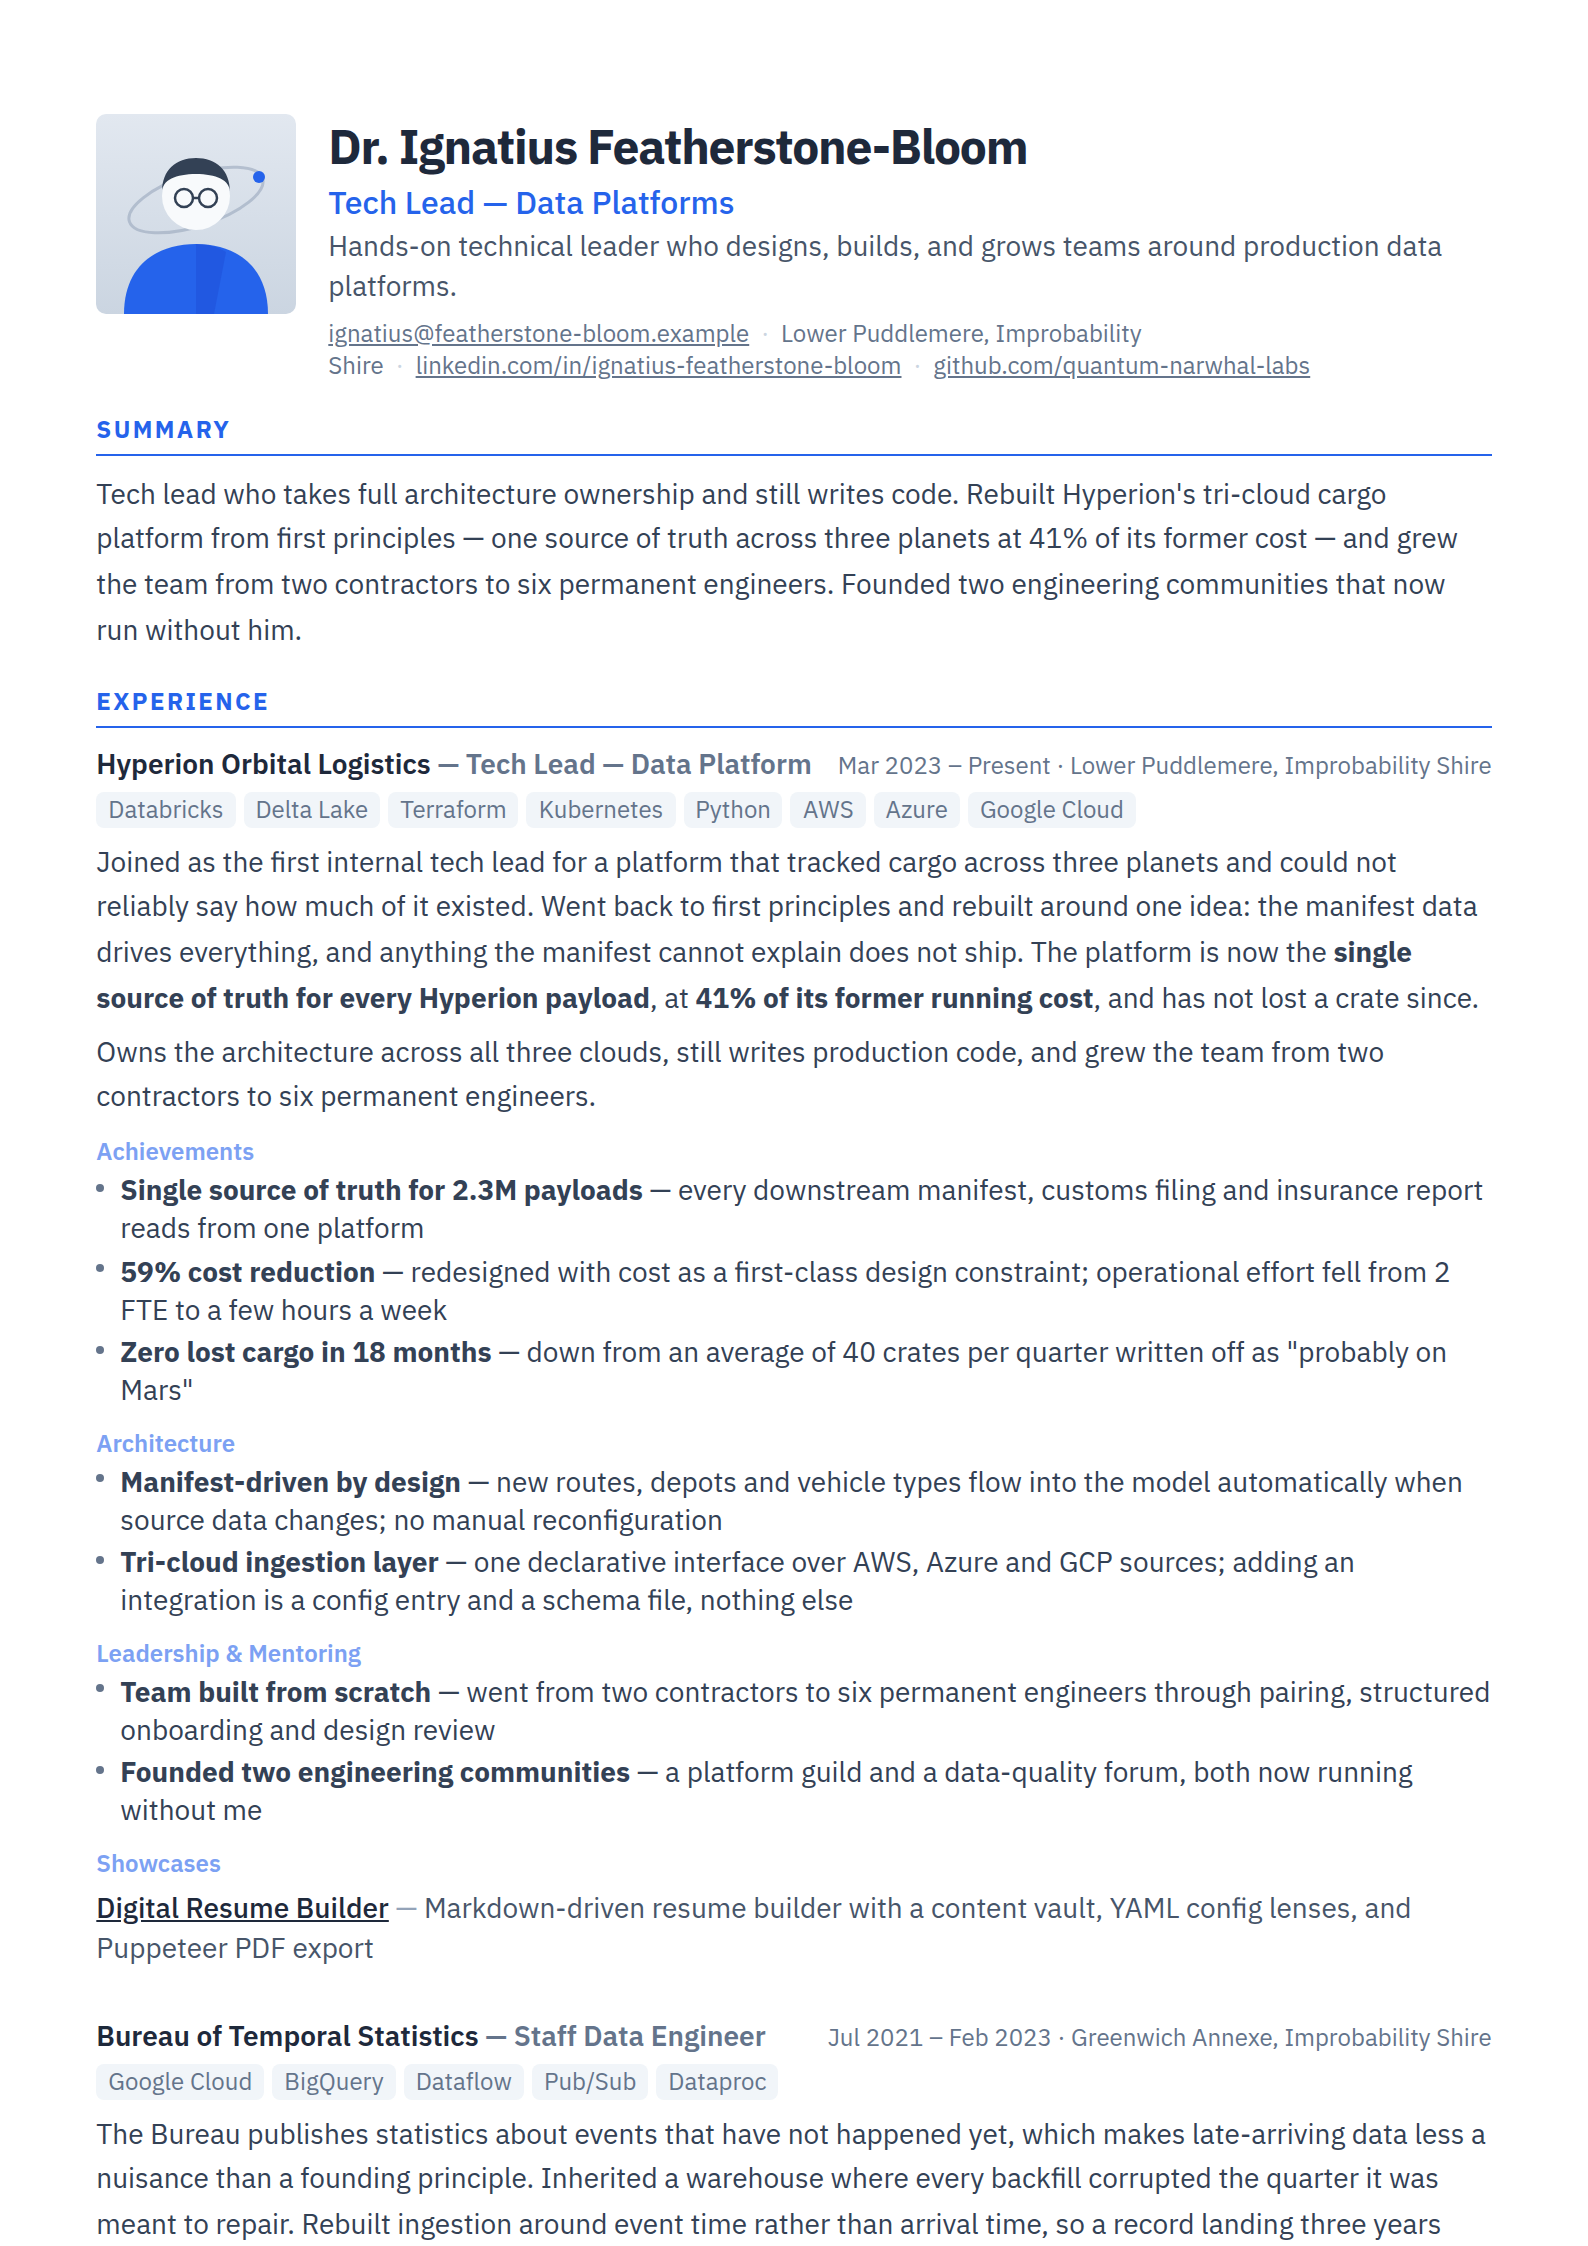
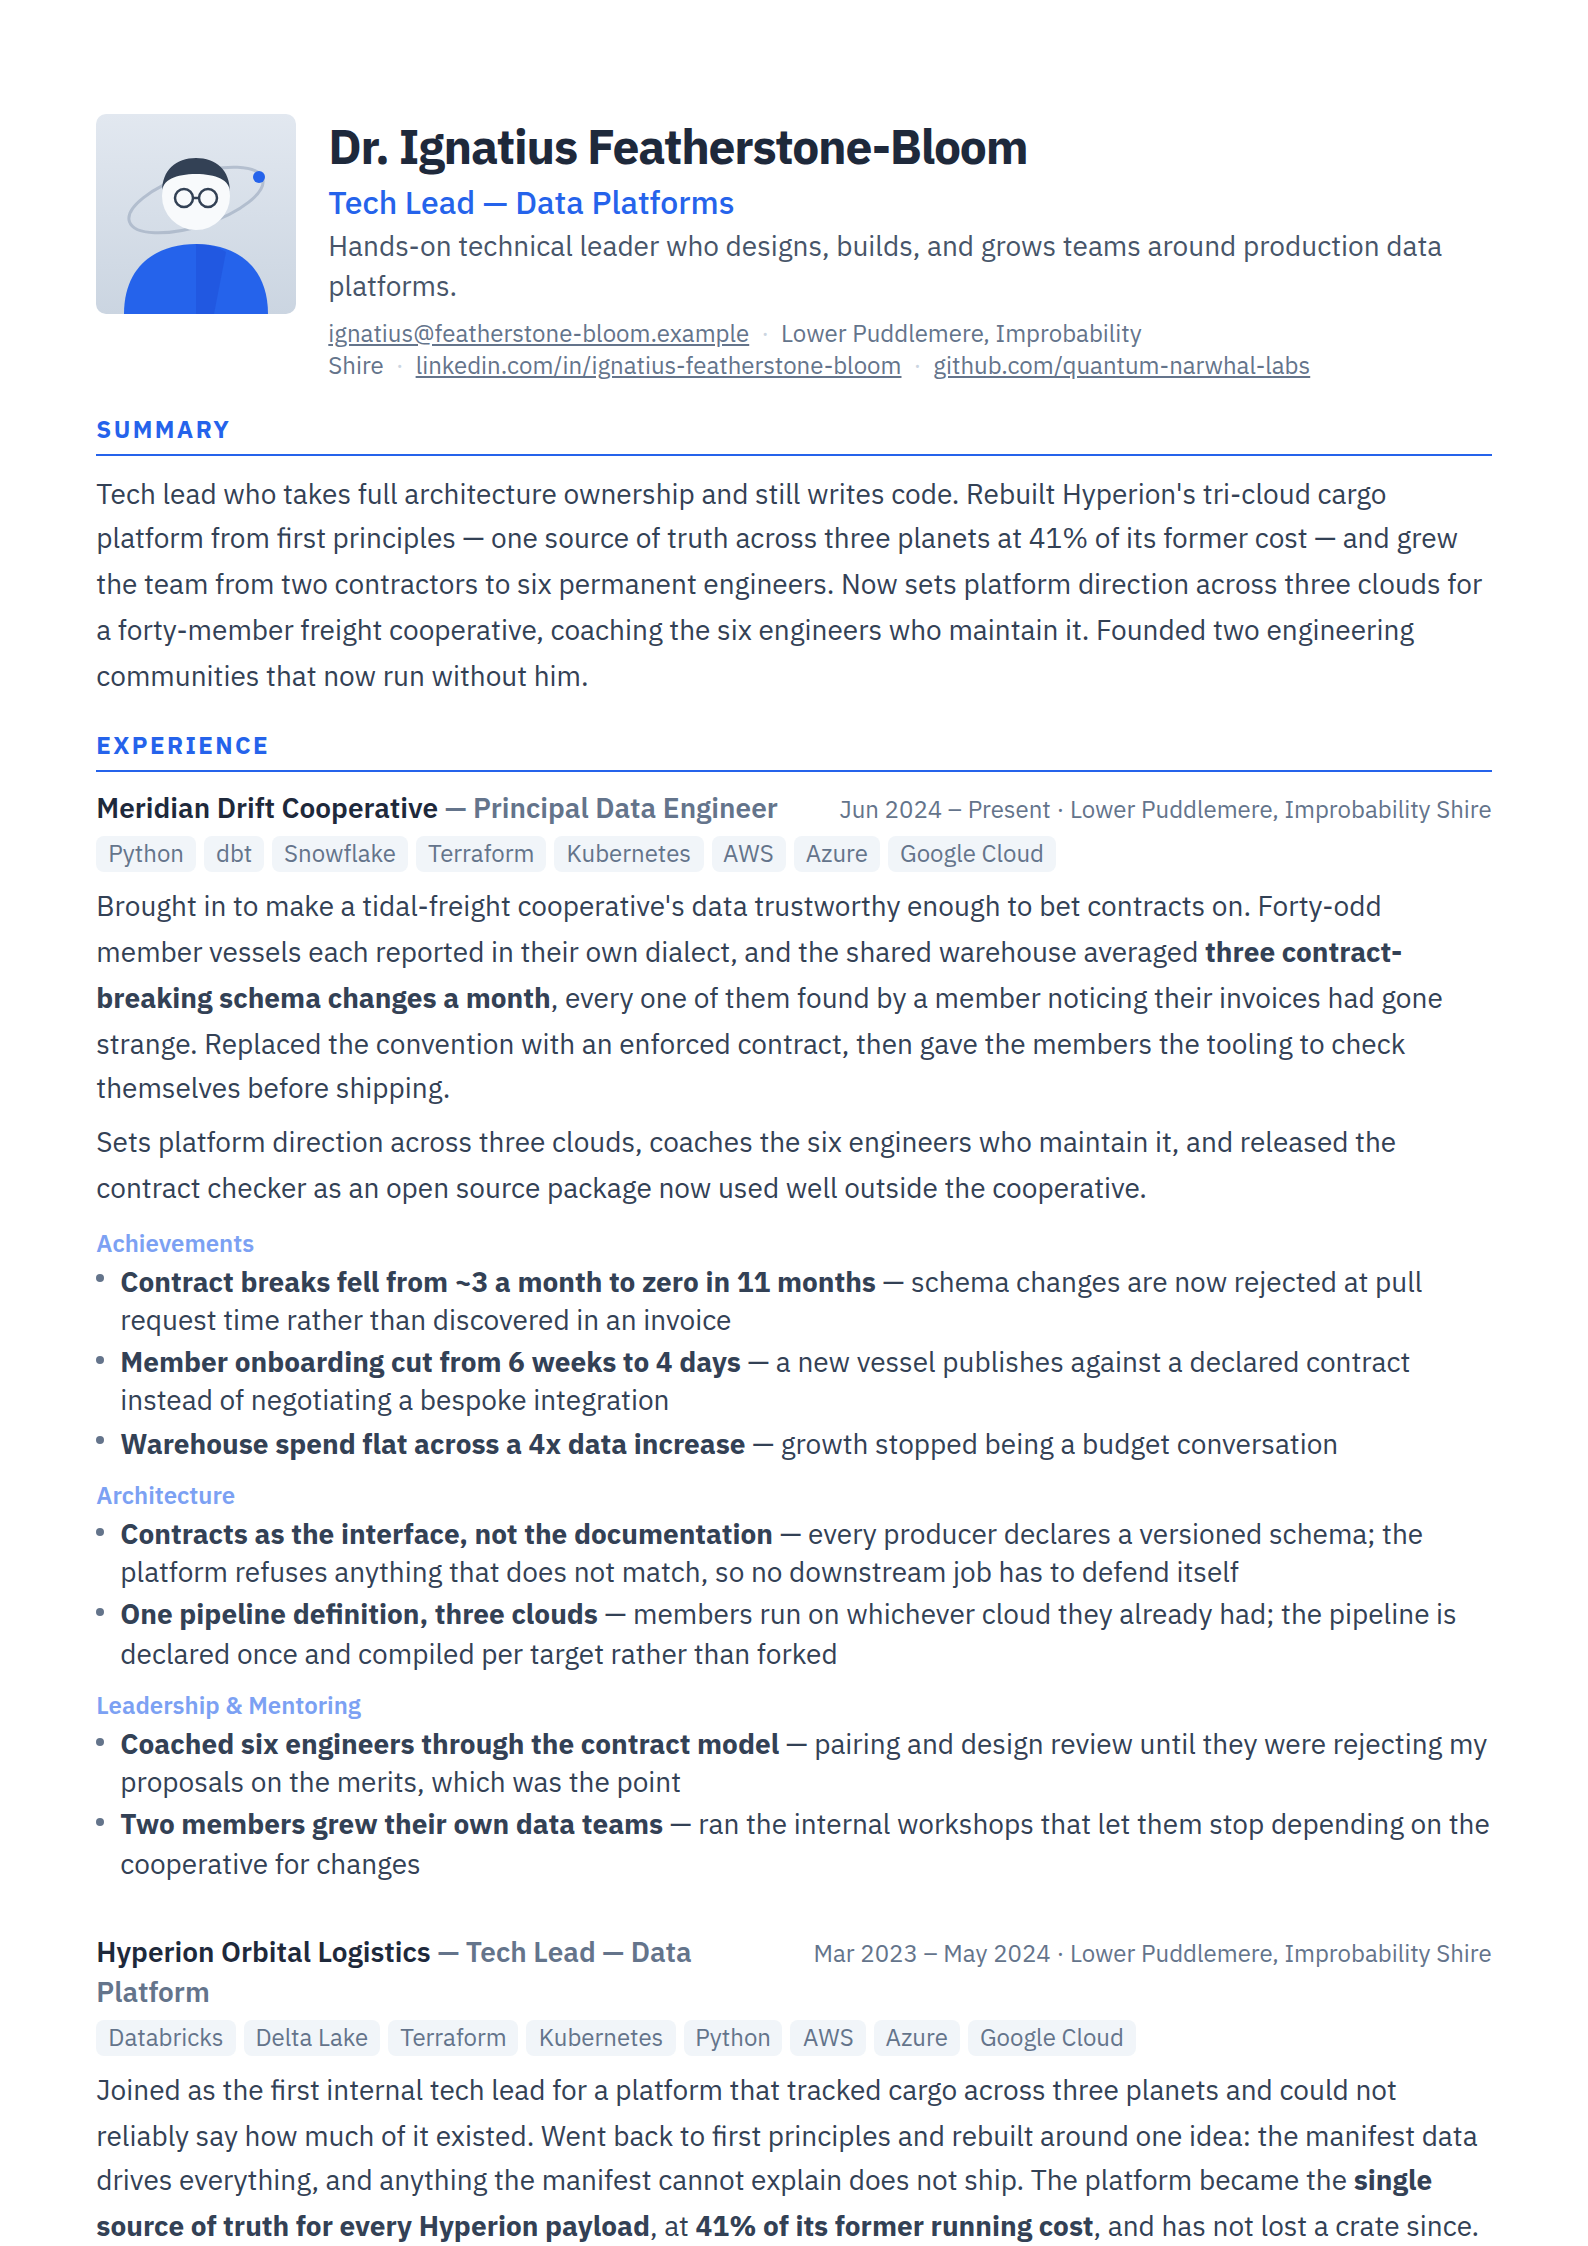
Reconcile the lens summaries with the newest role
Adding Meridian left every summary describing a job that is no longer the
current one. The tech-lead resume opened by narrating the Hyperion rebuild while
a Principal Data Engineer role sat directly above it, unmentioned — the kind of
incoherence a reader notices immediately and a green build never will.

Each summary now closes on the current role through that audience's lens: cost
and scale for AWS, enforced correctness for Azure, published freshness for GCP,
the open source release for the startup resume, and platform direction plus
coaching for tech-lead. Same job, five framings, which is the point of the vault.

The README screenshot was stale for the same reason — it showed Hyperion running
to Present and no Meridian at all. Regenerated from the running app.

The page-count claim goes too. The README said a twelve-year career fits on two
pages; it rendered three before this branch and four after. Dropping an entry
from a lens's expand list was measured and changes nothing, because unexpanded
entries still render compactly — the extra page comes from the vault holding an
eighth role, not from what any lens expands. Rather than quote a number that is
wrong for this demo and meaningless for a user who replaces content/, the
sentence now describes the mechanism, which was the useful half all along.

The lens title and tagline fields were checked and deliberately left: they are
target-role labels for an audience, not the holder's current job title.
[…]

Changed region(s): [[0.0617, 0.2805, 0.9257, 0.9973], [0.5246, 0.2493, 0.9257, 0.2805]]

diff --git a/README.md b/README.md
@@ -109,7 +109,8 @@ style:
 ```
 
 Entries not listed in `expand:` still appear, rendered compactly as a title, dates
-and narrative. That is how a twelve-year career fits on two pages.
+and narrative. That is how a long career stays readable: the roles this audience
+cares about get their full detail, the rest are present but take a line or two.
 
 **The two references behave differently when they are wrong.** An `expand:` id
 that matches no entry throws, and the page shows a visible render error. A
